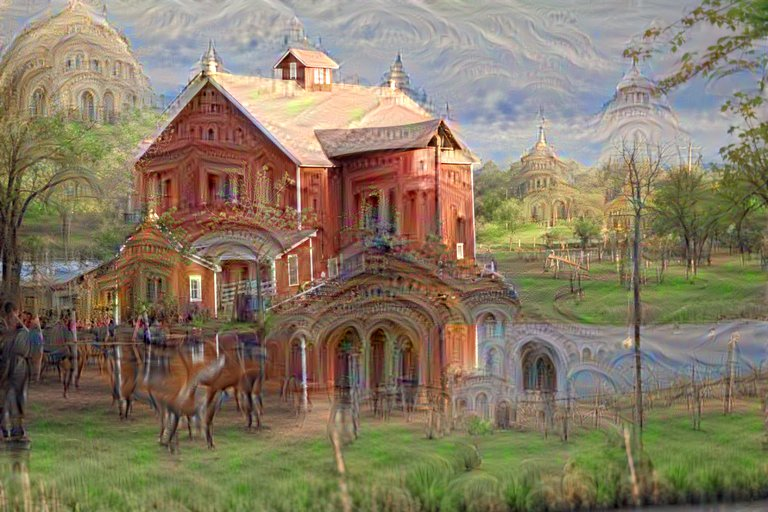
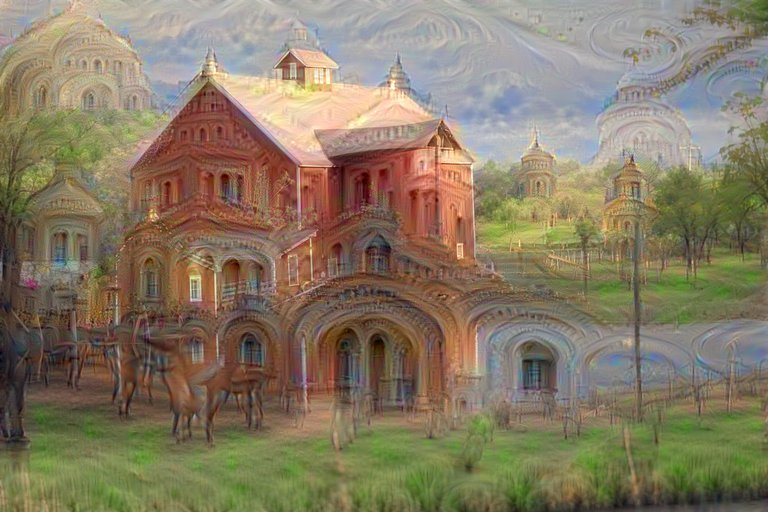
Update examples to not use scales kwarg.
Former-commit-id: a2585c1a88d56b0c9deef4cbed27addfabe7e1f1

diff --git a/README.md b/README.md
@@ -25,14 +25,14 @@ img = Image.open('kodim/img0022.jpg').resize((768, 512), Image.LANCZOS)
 <img src="example_in.jpg" width="384" height="256">
 
 ```
-out = cnn.dream(img, 'inception_4a/output', scales=12, per_octave=4, n=8, step_size=0.5)
+out = cnn.dream(img, 'inception_4a/output', min_size=64, per_octave=4, n=8, step_size=0.5, smoothing=0.02)
 dd.to_image(out).save('example_med.jpg', quality=85)
 ```
 
 <img src="example_med.jpg" width="384" height="256">
 
 ```
-out = cnn.dream(img, 'inception_4a/output', scales=12, per_octave=4, n=12, step_size=1.0)
+out = cnn.dream(img, 'inception_4a/output', min_size=64, per_octave=4, n=12, step_size=1.2, smoothing=0.01)
 dd.to_image(out).save('example_out.jpg', quality=85)
 ```
 
